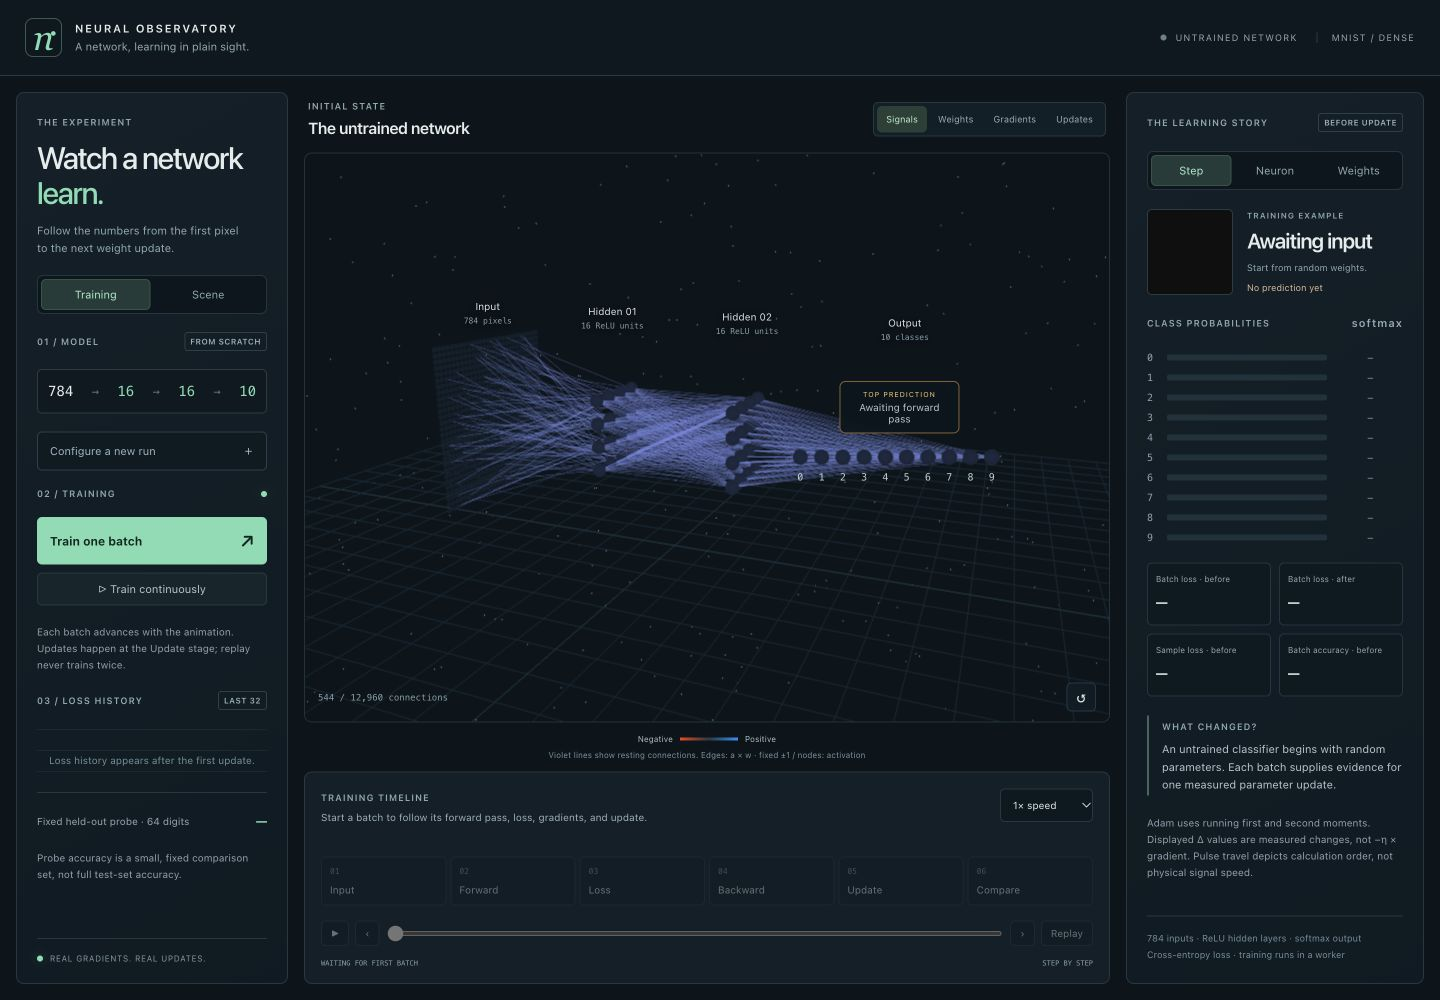
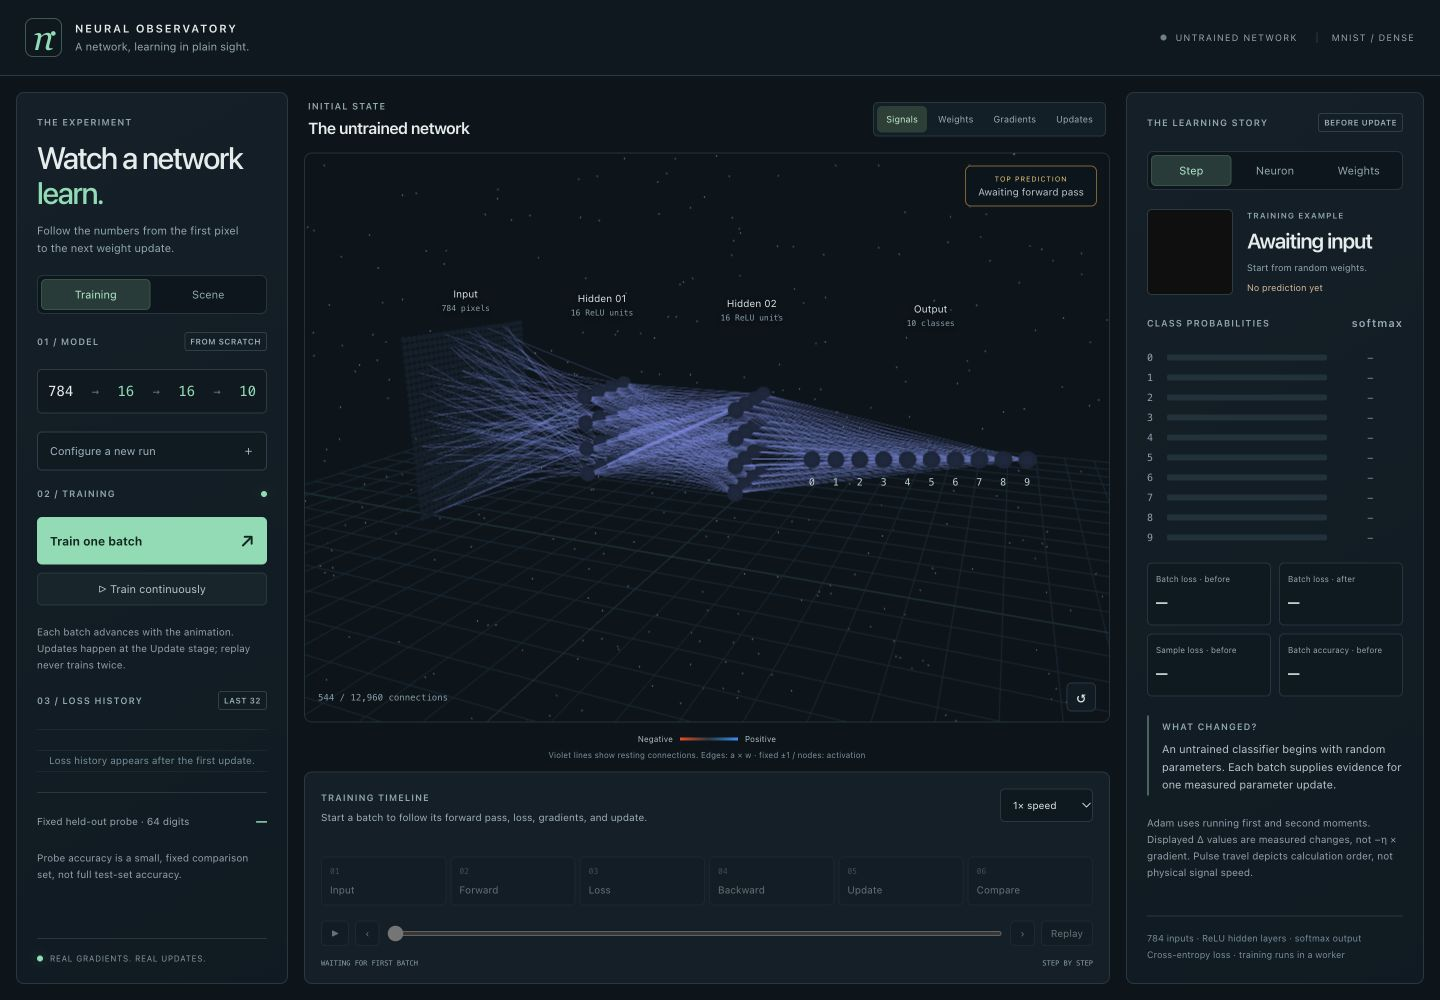
Move prediction readout to scene corner and refine framing

diff --git a/src/scene/NetworkScene.jsx b/src/scene/NetworkScene.jsx
@@ -255,6 +255,9 @@ function CameraRig({ preset, cameraKey, spacing, outputLayout }) {
             : [6, 4.8, 14];
     camera.position.set(...target.map((value) => value * ratio * Math.max(1, spacing)));
     controls.current.target.set(preset === 'input' ? -6 : wide ? 1 : 0, 0, 0);
+    // Bring the overview closer without changing its viewing angle or the input close-up.
+    if (preset !== 'input')
+      camera.position.sub(controls.current.target).multiplyScalar(0.9).add(controls.current.target);
     controls.current.update();
   }, [preset, cameraKey, camera, size.width, size.height, spacing, outputLayout]);
   return (
@@ -269,8 +272,7 @@ function CameraRig({ preset, cameraKey, spacing, outputLayout }) {
   );
 }
 function SceneContents(props) {
-  const { invalidate, size } = useThree();
-  const compact = size.width < 500;
+  const { invalidate } = useThree();
   useEffect(() => {
     invalidate();
   }, [props.playhead, props.playing, invalidate]);
@@ -302,11 +304,7 @@ function SceneContents(props) {
       {positions.map((layer, i) => (
         <Html
           key={i}
-          position={[
-            i === 3 ? 6 * props.spacing : layer[0][0],
-            i === 3 && horizontal && compact ? 4.2 : 3.1,
-            0,
-          ]}
+          position={[i === 3 ? 6 * props.spacing : layer[0][0], 3.1, 0]}
           center
           style={{ pointerEvents: 'none' }}
         >
@@ -324,27 +322,6 @@ function SceneContents(props) {
         spacing={props.spacing}
         prediction={prediction}
       />
-      <Html
-        position={[6 * props.spacing, horizontal ? (compact ? 2.0 : 1.25) : -3.6, 0]}
-        center
-        style={{ pointerEvents: 'none' }}
-      >
-        <div className={`output-prediction ${compact ? 'compact' : ''}`}>
-          <span>TOP PREDICTION</span>
-          {prediction ? (
-            <>
-              <strong>
-                {prediction.index} <small>{(prediction.probability * 100).toFixed(1)}%</small>
-              </strong>
-              <em className={prediction.correct ? 'correct' : 'incorrect'}>
-                {prediction.correct ? 'Correct' : 'Incorrect'}
-              </em>
-            </>
-          ) : (
-            <small>Awaiting forward pass</small>
-          )}
-        </div>
-      </Html>
       <gridHelper args={[28, 28, '#203d47', '#152a34']} position={[0, -3.3, 0]} />
     </>
   );
@@ -353,6 +330,7 @@ export default function NetworkScene(props) {
   return (
     <Canvas
       frameloop="demand"
+      style={{ zIndex: 0 }}
       camera={{ position: [10, 7, 19], fov: 43, near: 0.1, far: 100 }}
       dpr={props.quality === 'low' ? 1 : [1, 1.5]}
       gl={{ antialias: true, alpha: false }}
@@ -380,7 +358,7 @@ function Starfield() {
     const random = randomGenerator(718);
     const positions = [],
       colors = [];
-    for (let i = 0; i < 2400; i++) {
+    for (let i = 0; i < 3000; i++) {
       const y = random() * 2 - 1;
       const angle = random() * Math.PI * 2;
       const radius = 32 + random() * 30;

diff --git a/src/App.js b/src/App.js
@@ -4,6 +4,7 @@ import useTraining, { DEFAULT_SETTINGS } from './hooks/useTraining';
 import NetworkScene, { SCALES } from './scene/NetworkScene';
 import { PHASES, advanceTime } from './model/playback';
 import { argmax } from './model/network';
+import { predictionAt } from './scene/timing';
 import {
   PixelImage,
   Probabilities,
@@ -78,6 +79,7 @@ export default function App() {
   const after = time >= 5 && record?.committed;
   const probabilities = (after ? record?.afterTrace : record?.trace)?.activations[3];
   const prediction = probabilities ? argmax(probabilities) : null;
+  const scenePrediction = predictionAt(record, time);
   const setPlayhead = useCallback((value) => {
     timeRef.current = value;
     setTime(value);
@@ -516,6 +518,22 @@ export default function App() {
                 onCount={setEdgeCount}
               />
             </SceneBoundary>
+            <div className="output-prediction">
+              <span>TOP PREDICTION</span>
+              {scenePrediction ? (
+                <>
+                  <strong>
+                    {scenePrediction.index}{' '}
+                    <small>{(scenePrediction.probability * 100).toFixed(1)}%</small>
+                  </strong>
+                  <em className={scenePrediction.correct ? 'correct' : 'incorrect'}>
+                    {scenePrediction.correct ? 'Correct' : 'Incorrect'}
+                  </em>
+                </>
+              ) : (
+                <small>Awaiting forward pass</small>
+              )}
+            </div>
             <div className="scene-caption">
               <span>
                 {edgeCount.toLocaleString()} / {totalEdges.toLocaleString()} connections

diff --git a/src/App.scss b/src/App.scss
@@ -1042,6 +1042,10 @@ strong {
 }
 
 .output-prediction {
+  position: absolute;
+  top: 12px;
+  right: 12px;
+  pointer-events: none;
   min-width: 120px;
   padding: 8px 12px;
   text-align: center;
@@ -1085,13 +1089,17 @@ strong {
   font-weight: 700;
 }
 
-.output-prediction.compact {
-  min-width: 96px;
-  padding: 6px 8px;
-}
-.output-prediction.compact strong {
-  font-size: 20px;
-}
-.output-prediction.compact small {
-  font-size: 9px;
+@media (max-width: 640px) {
+  .output-prediction {
+    top: 10px;
+    right: 10px;
+    min-width: 96px;
+    padding: 6px 8px;
+  }
+  .output-prediction strong {
+    font-size: 20px;
+  }
+  .output-prediction small {
+    font-size: 9px;
+  }
 }

diff --git a/docs/implementation/VALIDATION.md b/docs/implementation/VALIDATION.md
@@ -4,7 +4,7 @@ Validated locally on 2026-10-03, with PR review revisions verified on 2026-10-04
 
 - 22 automated tests across six suites pass, including independent TensorFlow.js CPU gradient and multi-step optimizer comparisons, finite differences, worker commit/reset semantics, renderer data mapping, and UI lifecycle behavior.
 - ESLint passes with zero warnings. Production build succeeds; the existing Browserslist database emits an outdated-data notice.
-- Gzipped build assets: main JavaScript 282.91 kB, training worker 7.21 kB, CSS 4.15 kB. Original audit measurements were 565.97 kB for main and 310.69 kB for worker. These are asset sizes, not measured runtime speedups.
+- Gzipped build assets: main JavaScript 282.92 kB, training worker 7.21 kB, CSS 4.16 kB. Original audit measurements were 565.97 kB for main and 310.69 kB for worker. These are asset sizes, not measured runtime speedups.
 - Production interaction checks: prepare → Backward leaves the update pending; Update commits once; Replay/Compare retains step 1 and its values; hidden-neuron selection, exact incoming-connection inspection, and isolation work; weight maps render; continuous training completed 26 updates before pause.
 - Seed 42 / width 16 / Adam / learning rate 0.003 / batch 32: first batch mean loss 2.617 → 2.286; the fixed 64-example held-out probe was 10.9% after step 1 and 34.4% after step 26. These are smoke-check observations, not model-quality benchmarks.
 - New-run configuration was also exercised: width 8 / SGD / batch 8 cleared history and restarted at step 1; first batch loss changed from 2.684 to 2.554.
@@ -24,3 +24,6 @@ Remaining limitations: no measured FPS/GPU benchmark across devices, no Safari/F
 - Horizontal output positions now use the camera-right vector, keeping all classes at equal screen height and depth as the camera orbits. Projection tests cover three viewing angles; browser dragging verified the node, edge, and label alignment.
 - Resting connections now use brighter violet and a visible opacity floor so the hidden and output links are apparent before any batch runs. The initial-state screenshot was captured before training.
 - Mobile prediction-card placement was adjusted to leave the output nodes and class labels visible. Final production rendering was checked after correcting a shader compilation error found during development; no new shader errors appeared after the correction.
+
+- The prediction readout is anchored to the scene’s top-right corner, independent of orbit, with pointer events passing through to the scene. Desktop and mobile checks confirm it clears the output row; the winning class remains highlighted on the network.
+- Overview and schematic cameras are 10% closer to their orbit target. The static starfield has 3,000 points (up from 2,400), retaining its original size and brightness. Desktop horizontal/vertical and mobile framing remain within the scene.
